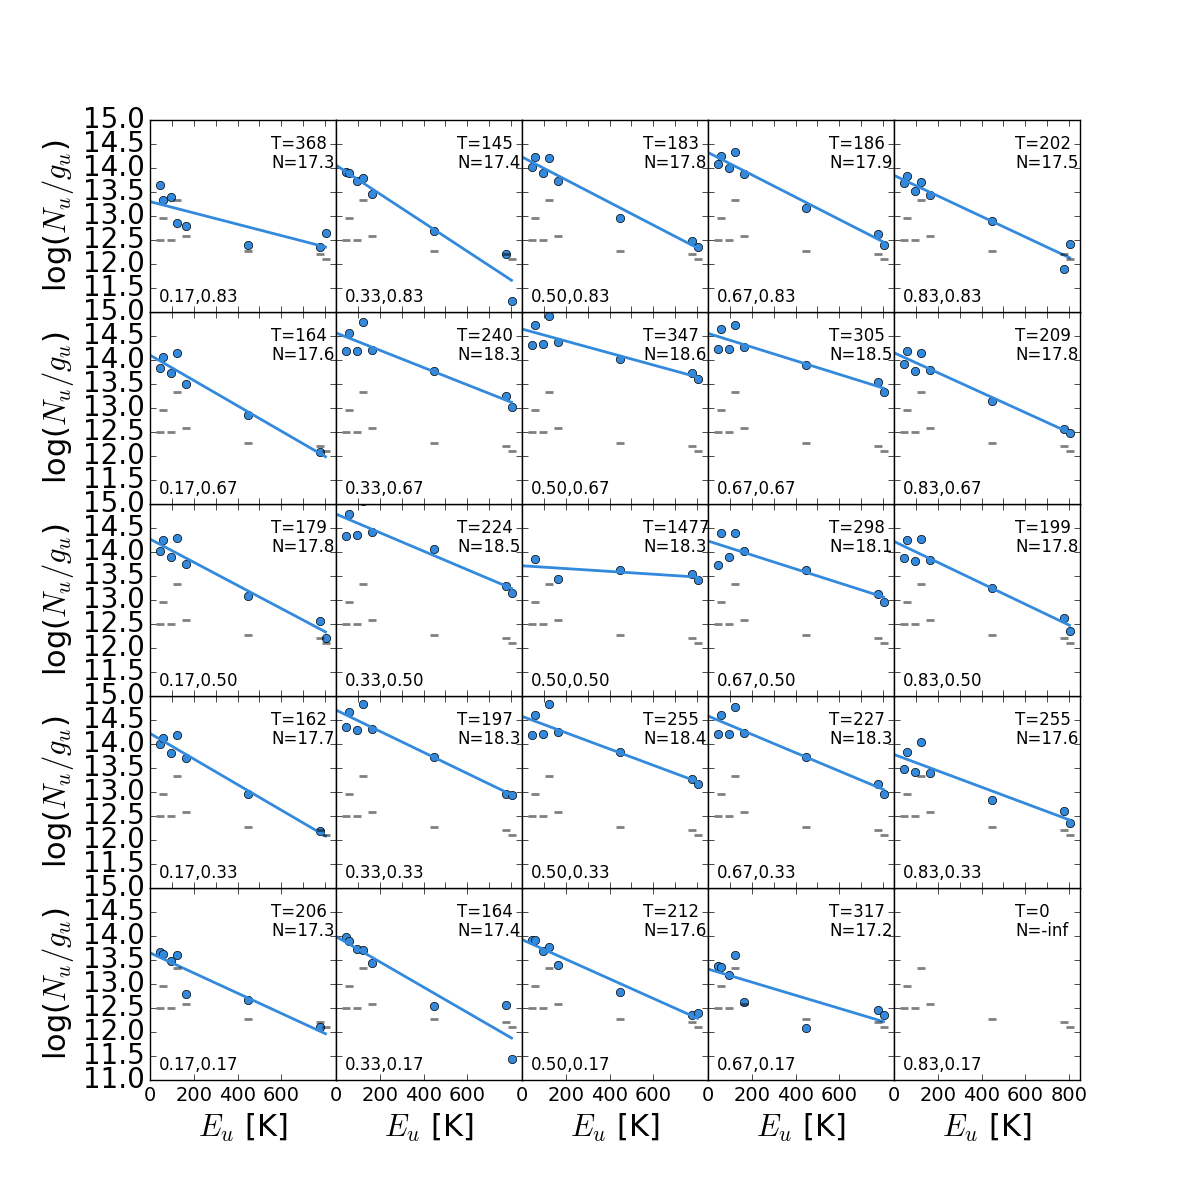
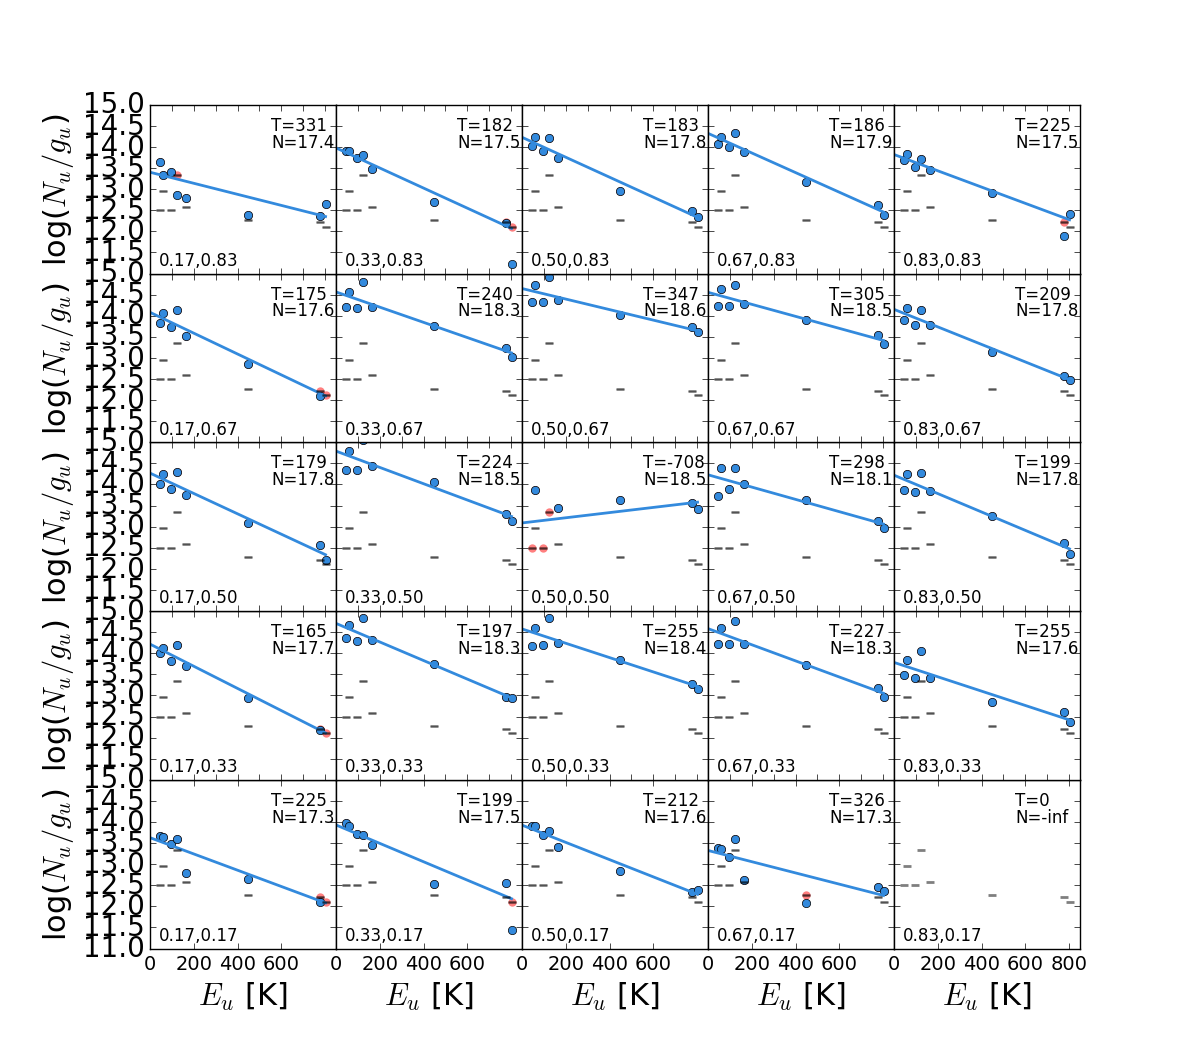
remove some comment lines

diff --git a/analysis/rotational_diagram_maps.py b/analysis/rotational_diagram_maps.py
@@ -139,48 +139,6 @@ def cutout_id_chem_map(yslice=slice(367,467), xslice=slice(114,214),
     return xaxis,cube,maps,energies,frequencies,indices,degeneracies,header
 
 
-#def Nu_thin_hightex(flux, line_strength, freq, fillingfactor=1.0, tau=None):
-#    """
-#    Optically-thin-ish approximation for the column density of the upper state
-#    of a given line assuming T_ex >> T_bg and T_ex >> h nu
-#
-#    Parameters
-#    ----------
-#    flux : quantity
-#        flux density in K km/s
-#    line_strength : quantity
-#        The strength of the line S_ij in 10^-18 esu cm (i.e., in debye)
-#    freq : quantity
-#        The frequency in Hz-equivalent
-#
-#
-#    See eqn 29 of Mangum, rearranged to use eqn 11...
-#    """
-#    assert flux.unit.is_equivalent(u.K*u.km/u.s)
-#    assert line_strength.unit.is_equivalent(u.esu*u.cm)
-#    k = constants.k_B
-#    term1 = (3*k/(8*np.pi**2 * freq * line_strength**2))
-#    term5 = flux.to(u.K*u.km/u.s) / fillingfactor
-#    term6 = 1 if tau is None else tau/(1-np.exp(-tau))
-#    return (term1*term5*term6).to(u.cm**-2)
-#
-#
-#def Nu_thin(flux, line_strength, tex, freq, Tbg=2.7315*u.K, fillingfactor=1.0, tau=None):
-#    """
-#    Derived from Eqn 30 + Eqn 80 of Mangum 2015
-#    """
-#    assert flux.unit.is_equivalent(u.K*u.km/u.s)
-#    assert line_strength.unit.is_equivalent(u.esu*u.cm)
-#    hnu = constants.h * freq
-#    h = constants.h
-#    kbt = constants.k_B * tex
-#    term1 = (3*h/(8*np.pi**2 * line_strength**2))
-#    term3 = 1. / (np.exp(hnu/kbt) - 1)
-#    term4 = 1./(tex-Tbg)
-#    term5 = flux.to(u.K*u.km/u.s) / fillingfactor
-#    term6 = 1 if tau is None else tau/(1-np.exp(-tau))
-#    return (term1*term3*term4*term5*term6).to(u.cm**-2)
-
 def nupper_of_kkms(kkms, freq, Aul, degeneracies, Tex=100*u.K,
                    replace_bad=None):
     """ Derived directly from pyspeckit eqns..."""
@@ -247,10 +205,12 @@ def fit_tex(eupper, nupperoverg, verbose=False, plot=False, uplims=None):
     Ntot = np.exp(result.intercept + np.log(Q_rot)) * u.cm**-2
 
     if verbose:
-        print(("Tex={0}, Ntot={1}, Q_rot={2}".format(tex, Ntot, Q_rot)))
+        print(("Tex={0}, Ntot={1}, Q_rot={2}, nuplim={3}".format(tex, Ntot, Q_rot, upperlim_mask.sum())))
 
     if plot:
         import pylab as pl
+        L, = pl.plot(eupper, np.log10(nupperoverg_tofit), 'ro',
+                     markeredgecolor='none', alpha=0.5)
         L, = pl.plot(eupper, np.log10(nupperoverg), 'o')
         xax = np.array([0, eupper.max().value])
         line = (xax*result.slope.value +
@@ -258,7 +218,7 @@ def fit_tex(eupper, nupperoverg, verbose=False, plot=False, uplims=None):
         pl.plot(xax, np.log10(np.exp(line)), '-', color=L.get_color(),
                 label='$T={0:0.1f} \log(N)={1:0.1f}$'.format(tex, np.log10(Ntot.value)))
 
-        if uplims:
+        if uplims is not None:
             pl.plot(eupper, np.log10(uplims), marker='_', alpha=0.5,
                     linestyle='none', color='k')
 
@@ -405,10 +365,17 @@ if __name__ == "__main__":
              'ALMAmm14':2.1*u.arcsec,
              'north':4.0*u.arcsec,
             }
+    dthresh = {'e2': detection_threshold_jykms*approximate_jytok,
+               'e8': detection_threshold_jykms*approximate_jytok,
+               'north': detection_threshold_jykms*approximate_jytok,
+               'ALMAmm14': 0.001*approximate_jytok, # not real, just for better fits..
+              }
 
     # use precomputed moments
     for sourcename, region in (('e2','e2e8'), ('e8','e2e8'), ('north','north'),
                                ('ALMAmm14','ALMAmm14'),):
+
+        replace_bad = dthresh[sourcename]
                                 
         _ = cutout_id_chem_map(source=sources[sourcename],
                                radius=radii[sourcename],
@@ -427,11 +394,16 @@ if __name__ == "__main__":
             rdy = int(spy*cube.shape[1])
             plotnum = (nx*ny-(2*(ii//ny)*ny)+ii-ny)+1
             pl.subplot(nx,ny,plotnum)
+
+            uplims = nupper_of_kkms(replace_bad, cubefrequencies,
+                                    einsteinAij[indices], degeneracies,)
             Ntot, tex, slope, intcpt = fit_tex(xaxis,
                                                nupper_of_kkms(cube[:,rdy,rdx],
                                                               cubefrequencies,
                                                               einsteinAij[indices],
                                                               degeneracies).value,
+                                               uplims=uplims.value,
+                                               verbose=True,
                                                plot=True)
             pl.ylim(11, 15)
             pl.xlim(0, 850)
@@ -449,10 +421,10 @@ if __name__ == "__main__":
 
             # show upper limits
             pl.plot(xaxis,
-                    np.log10(nupper_of_kkms(detection_threshold_jykms*approximate_jytok,
+                    np.log10(nupper_of_kkms(replace_bad,
                                             cubefrequencies,
                                             einsteinAij[indices],
-                                            degeneracies,).value),
+                                            degeneracies).value),
                     linestyle='none', marker='_', color='k',
                     markeredgewidth=2, alpha=0.5)
 
@@ -478,9 +450,9 @@ if __name__ == "__main__":
         pl.subplots_adjust(hspace=0, wspace=0)
         pl.savefig(paths.fpath("chemistry/ch3oh_rotation_diagrams_{0}.png".format(sourcename)))
 
-        if True:
+        if False:
             tmap,Nmap = fit_all_tex(xaxis, cube, cubefrequencies, indices, degeneracies,
-                                    replace_bad=detection_threshold_jykms*approximate_jytok)
+                                    replace_bad=replace_bad)
 
             pl.figure(1).clf()
             pl.imshow(tmap, vmin=0, vmax=600, cmap='hot')

diff --git a/analysis/dust_properties.py b/analysis/dust_properties.py
@@ -30,6 +30,12 @@ e2e_dustmass = dust_emissivity.dust.massofsnu(freq, e2e_peak_flux,
                                               temperature=e2e_peak_tb)
 print("e2e dust mass: {0}".format(e2e_dustmass))
 
+e2e_peak_column = dust_emissivity.dust.colofsnu(freq, e2e_peak_flux,
+                                                beamomega=beam,
+                                                temperature=100*u.K).to(u.cm**-2,
+                                                                        u.dimensionless_angles())
+print("e2e peak column: {0}".format(e2e_peak_column))
+
 regfn = 'e2_exclude_e2w.reg'
 reg_noe2w = pyregion.open(paths.rpath(regfn))
 regfn = 'e2_exclude_e2w_and_e2e.reg'
@@ -48,6 +54,12 @@ print("Median brightness temperature: {0}".format(e2_median_tb))
 e2_20k_total_mass = dust_emissivity.dust.massofsnu(freq, e2_total_flux,
                                                    distance=distance,
                                                    temperature=20*u.K)
+
+e2_median_column = dust_emissivity.dust.colofsnu(freq, e2_median_flux,
+                                                  beamomega=beam,
+                                                  temperature=100*u.K).to(u.cm**-2,
+                                                                          u.dimensionless_angles())
+print("e2 median column: {0}".format(e2_median_column))
 
 print("e2 total mass, excluding e2w's flux, assuming T={1}: {0}"
       .format(e2_20k_total_mass, 20*u.K))

diff --git a/script_12m/merge_cubes_into_bigone.py b/script_12m/merge_cubes_into_bigone.py
@@ -2,6 +2,7 @@
 http://docs.astropy.org/en/stable/io/fits/appendix/faq.html#how-can-i-create-a-very-large-fits-file-from-scratch
 """
 from astropy import log
+from astropy import wcs
 from astropy.io import fits
 import numpy as np
 import glob
@@ -126,7 +127,8 @@ def make_spw_cube(spw='spw{0}', spwnum=0, fntemplate='w51pointing32',
 
     # Find the appropriate files (this is NOT a good way to do this!  Better to
     # provide a list.  But wildcards are quick & easy...
-    files = glob.glob("piece_of_{1}_cube{2}.{0}.chan*{3}".format(spw,fntemplate,fnsuffix,filesuffix))
+    files = glob.glob("piece_of_{1}_cube{2}.{0}.chan*{3}"
+                      .format(spw,fntemplate,fnsuffix,filesuffix))
     log.info("Files to be merged: ")
     log.info(str(files))
 
@@ -145,8 +147,11 @@ def make_spw_cube(spw='spw{0}', spwnum=0, fntemplate='w51pointing32',
     bad = {}
 
     for fn in ProgressBar(files):
-        log.info("{0} {1}".format(getinds(fn), fn))
+        hdr = fits.getheader(fn)
+        mwcs = wcs.WCS(hdr)
+        (f0,f1), = mwcs.sub([wcs.WCSSUB_SPECTRAL]).wcs_pix2world((1,hdr['NAXIS3']), 1)
         ind0,ind1 = getinds(fn)
+        log.info("{0}->{1} {2}".format([ind0,ind1], [f0,f1], fn))
 
         if ind0 > 0:
             if skip_failures and ind1-ind0 != fits.getdata(fn).shape[0]:

diff --git a/script_merge/scriptForImaging_fullcube_tclean_hires.py b/script_merge/scriptForImaging_fullcube_tclean_hires.py
@@ -51,7 +51,7 @@ nchans_total = {ii: int(np.abs(np.diff(frange[ii])/fstep[ii]*1000.)[0])
 ncubes_per_window = 40
 
 
-for spwnum in '0132':
+for spwnum in '1032':
     spwnum = int(spwnum)
 
 
@@ -120,7 +120,7 @@ for spwnum in '0132':
 
 
         # LINE IMAGING (MOSAIC MODE)
-        if (not (os.path.exists(output+".image.fits") or
+        if (not (os.path.exists(output+".image.fits") and
                  os.path.exists(output+".image.pbcor.fits"))
             or ('reclean' in locals() and reclean)):
             print "Imaging {0}".format(output)

diff --git a/cores_and_outflows/cores_and_outflows.tex b/cores_and_outflows/cores_and_outflows.tex
@@ -484,7 +484,7 @@ substantial hidden or undetected gas, while if the filling factor is low, it
 may be much hotter and therefore lower in mass.
 
 In the broader region surrounding W51e2e, out to a radius $\sim8000$ au,
-the total mass is $M\approx1400 (T / 100 \mathrm{K})^{-1}$.  The mass
+the total mass is $M\approx1400 (T / 100 \mathrm{K})^{-1}$ \msun.  The mass
 heated by e2e is therefore enormous, constituting an entire star cluster's
 worth of material.
 
